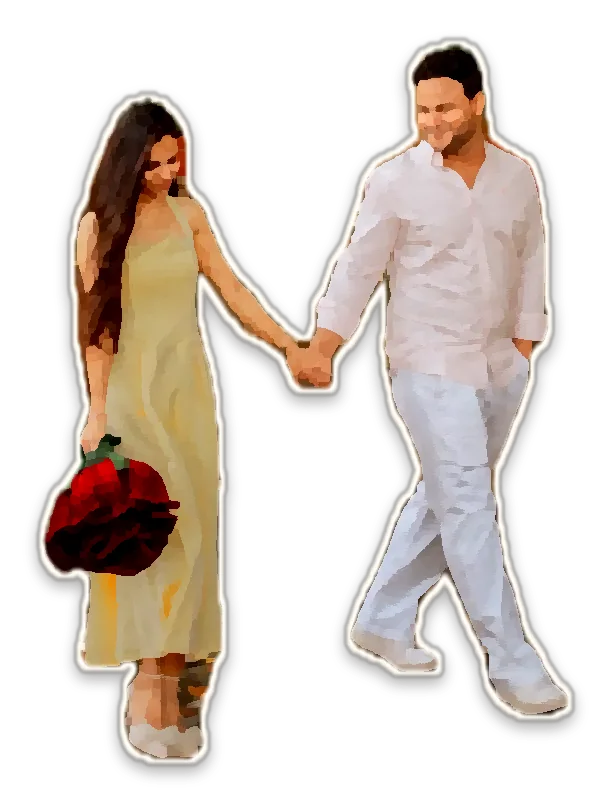
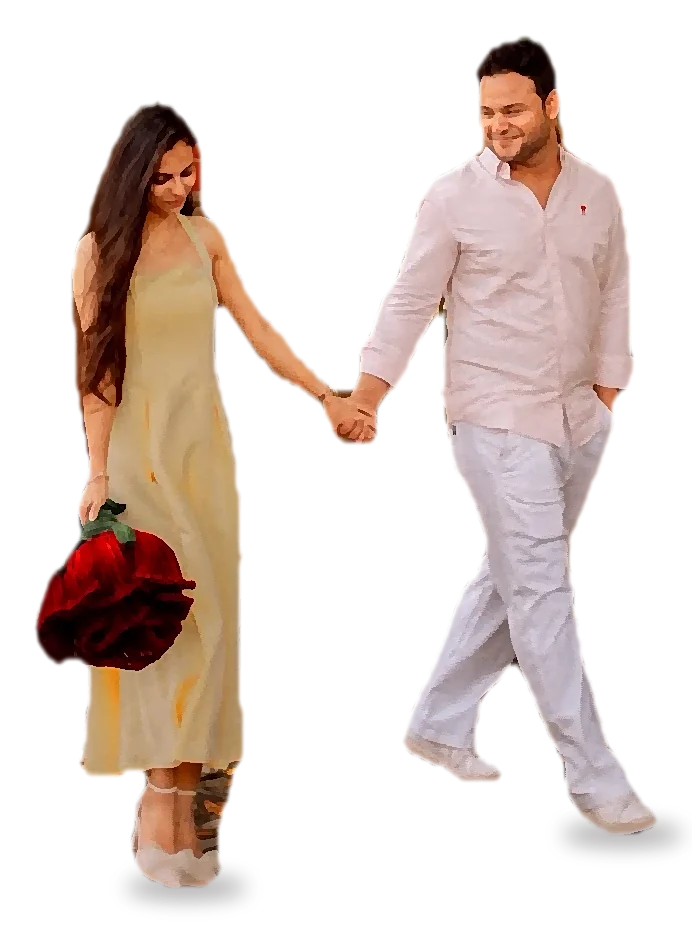
Bring back the walking couple, without the sticker outline
Rebuilt by tools/build_walker.py: feathered edge, warmer grade to match the date
page, a lighter paint pass and a soft shadow under each pair of feet.

Changed region(s): [[0.0311, 0.0311, 0.9951, 0.9639]]

diff --git a/index.html b/index.html
@@ -23,7 +23,7 @@
 <link rel="stylesheet" href="https://fonts.googleapis.com/css2?family=Poiret+One&text=Reception&display=swap">
 <link rel="preload" as="image" href="assets/art/door-left.webp">
 <link rel="preload" as="image" href="assets/art/door-right.webp">
-<link rel="stylesheet" href="styles.css?v=22">
+<link rel="stylesheet" href="styles.css?v=23">
 <script>document.documentElement.classList.add('js')</script>
 </head>
 <body>
@@ -156,6 +156,7 @@
       </div>
     </div>
   </div>
+  <img class="doll doll--walk" id="walker" src="assets/art/couple-walk.webp?v=2" width="692" height="946" loading="lazy" decoding="async" alt="Himanshu and Simran walking hand in hand">
 </section>
 
 <!-- 4. Carnival of Joy -->

diff --git a/styles.css b/styles.css
@@ -481,6 +481,7 @@ main > .page:not(#couple), main > .turn {
   background: radial-gradient(ellipse 50% 50% at 50% 50%, rgba(255, 249, 242, .78), rgba(255, 249, 242, .5) 55%, rgba(255, 249, 242, 0) 100%);
 }
 .date__month { color: #5e1a16; margin-top: 2px; }
+.doll--walk { position: absolute; z-index: 3; left: 0; bottom: 1.5%; width: 34%; }
 .unlock__teaser { border: 0; padding: .3em 0; font-size: calc(var(--col) * .038); color: #6b4630; }
 
 /* ── Alignment rhythm: the four pehars alternate sides instead of all sitting in the middle ── */

diff --git a/tools/build_walker.py b/tools/build_walker.py
@@ -1,0 +1,86 @@
+"""Builds assets/art/couple-walk.webp: the couple walking hand in hand, for the date page.
+
+  python3 -I tools/build_walker.py
+
+A clean, gently painted figure with no sticker outline: the photo is cut out with its mask
+(source/masks/walk-fg.png), the edge is feathered, the colours are warmed toward the date page's
+rose-and-marigold palette, and a soft shadow is laid under their feet so they stand on the ground.
+Standalone on purpose: running tools/build_art.py would also overwrite the scene art that has faces.
+"""
+from pathlib import Path
+
+import numpy as np
+from PIL import Image, ImageEnhance, ImageFilter
+
+ROOT = Path(__file__).resolve().parent.parent
+SRC = ROOT / "source"
+TARGET_H, PAD, FOOT = 900, 18, 46
+
+
+def kuwahara(im, r):
+    """Edge-preserving 'painted' filter (same as build_art.py)."""
+    a = np.asarray(im.convert("RGB")).astype(np.float32)
+    H, W = a.shape[:2]
+    pad = np.pad(a, ((r, r), (r, r), (0, 0)), mode="edge")
+    lum = pad.mean(axis=2)
+    k = r + 1
+
+    def box(x):
+        c = np.cumsum(np.cumsum(x, axis=0), axis=1)
+        c = np.pad(c, ((1, 0), (1, 0)) + ((0, 0),) * (x.ndim - 2))
+        return (c[k:, k:] - c[:-k, k:] - c[k:, :-k] + c[:-k, :-k]) / (k * k)
+
+    mean = box(pad)
+    var = box(lum ** 2) - box(lum) ** 2
+    offs = [(0, 0), (0, r), (r, 0), (r, r)]
+    v = np.stack([var[dy:dy + H, dx:dx + W] for dy, dx in offs])
+    m = np.stack([mean[dy:dy + H, dx:dx + W] for dy, dx in offs])
+    idx = np.argmin(v, axis=0)
+    out = np.take_along_axis(m, idx[None, ..., None], axis=0)[0]
+    return Image.fromarray(np.clip(out, 0, 255).astype(np.uint8))
+
+
+im = Image.open(SRC / "walk.jpg").convert("RGB")
+m = Image.open(SRC / "masks" / "walk-fg.png").convert("L").resize(im.size, Image.LANCZOS)
+box = m.point(lambda v: 255 if v > 40 else 0).getbbox()
+box = (max(box[0] - PAD, 0), max(box[1] - PAD, 0), min(box[2] + PAD, im.width), min(box[3] + 4, im.height))
+im, m = im.crop(box), m.crop(box)
+k = TARGET_H / im.height
+size = (round(im.width * k), TARGET_H)
+im, m = im.resize(size, Image.LANCZOS), m.resize(size, Image.LANCZOS)
+
+# a light painted finish: one gentle pass, then a touch of sharpening so faces stay crisp
+fig = kuwahara(im, 2).filter(ImageFilter.UnsharpMask(radius=1.2, percent=60, threshold=2))
+a = np.asarray(fig).astype(np.float32) / 255
+a = a * np.array([1.0, .965, .955]) + np.array([.03, .012, .02])     # warm the light, rose the shadows
+a = np.clip((a - .5) * 1.04 + .5, 0, 1)
+fig = ImageEnhance.Color(Image.fromarray((a * 255).astype(np.uint8))).enhance(1.06)
+
+# feathered edge, no outline
+alpha = m.filter(ImageFilter.GaussianBlur(1.1)).point(lambda v: min(255, int(max(0, v - 110) * 2.4)))
+alpha = alpha.filter(ImageFilter.MinFilter(5)).filter(ImageFilter.GaussianBlur(1.0))  # pull in past the photo's dark fringe
+
+W, H = size[0], size[1] + FOOT
+canvas = Image.new("RGBA", (W, H), (0, 0, 0, 0))
+# a soft contact shadow under each pair of feet, nudged right as if lit from the left
+from PIL import ImageDraw
+al = np.asarray(alpha)
+sh = Image.new("L", (W, H), 0)
+d = ImageDraw.Draw(sh)
+for lo, hi in ((0, W // 2), (W // 2, W)):
+    part = al[:, lo:hi] > 120
+    ys = np.where(part.any(axis=1))[0]
+    if not len(ys):
+        continue
+    foot = ys.max()
+    xs = np.where(part[foot - 40:foot + 1].any(axis=0))[0] + lo
+    d.ellipse((xs.min() - 6, foot - 9, xs.max() + 26, foot + 13), fill=160)
+sh = sh.filter(ImageFilter.GaussianBlur(10))
+canvas = Image.composite(Image.new("RGBA", (W, H), (70, 28, 40, 255)), canvas, sh.point(lambda v: int(v * .55)))
+layer = Image.new("RGBA", (W, H), (0, 0, 0, 0))
+f = fig.convert("RGBA"); f.putalpha(alpha)
+layer.paste(f, (0, 0))
+canvas = Image.alpha_composite(canvas, layer)
+out = ROOT / "assets" / "art" / "couple-walk.webp"
+canvas.save(out, "WEBP", quality=86, method=6, alpha_quality=92)
+print(out.name, canvas.size, out.stat().st_size, "bytes")
